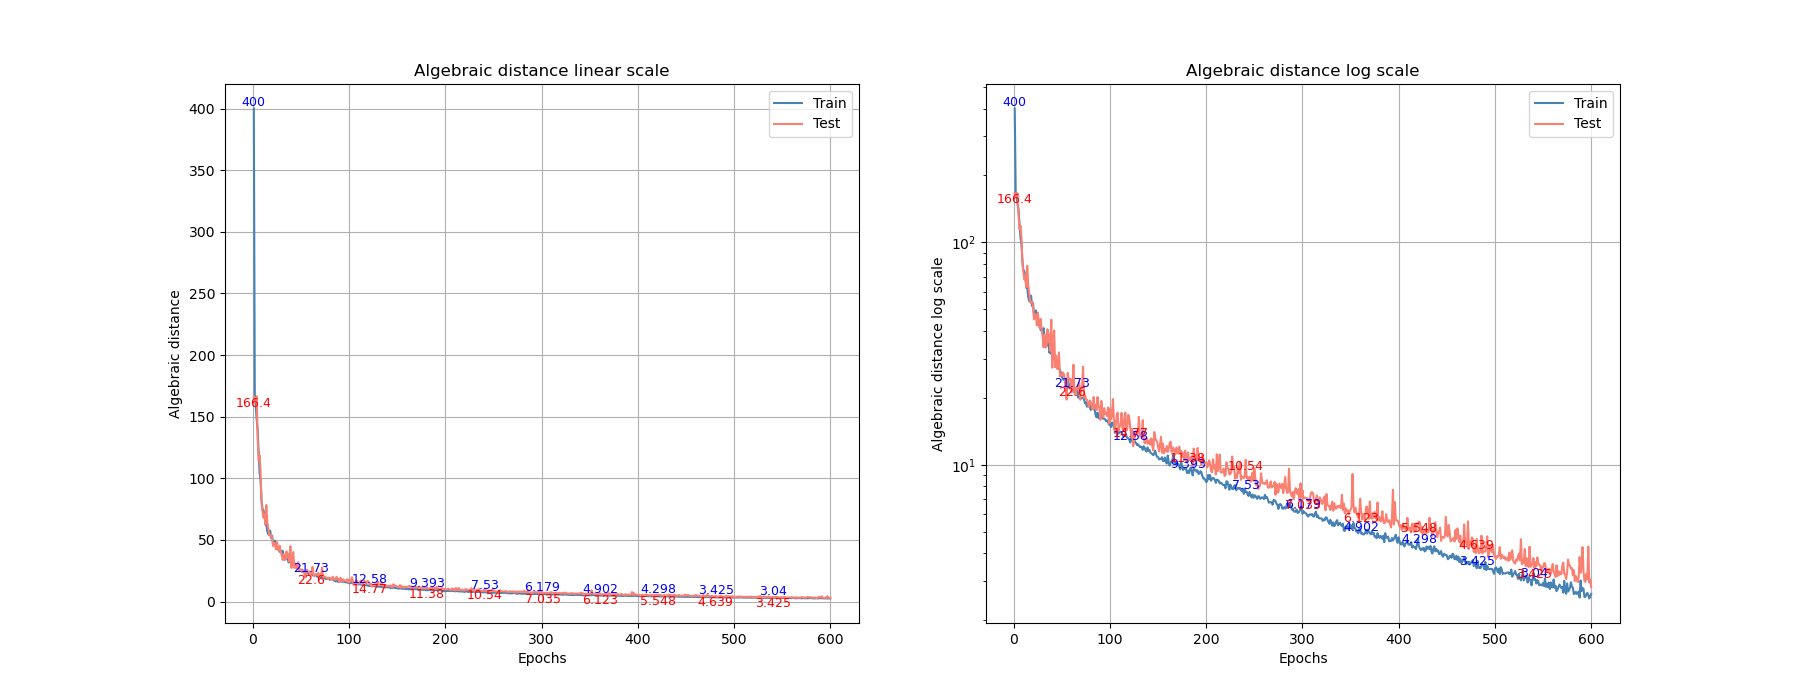
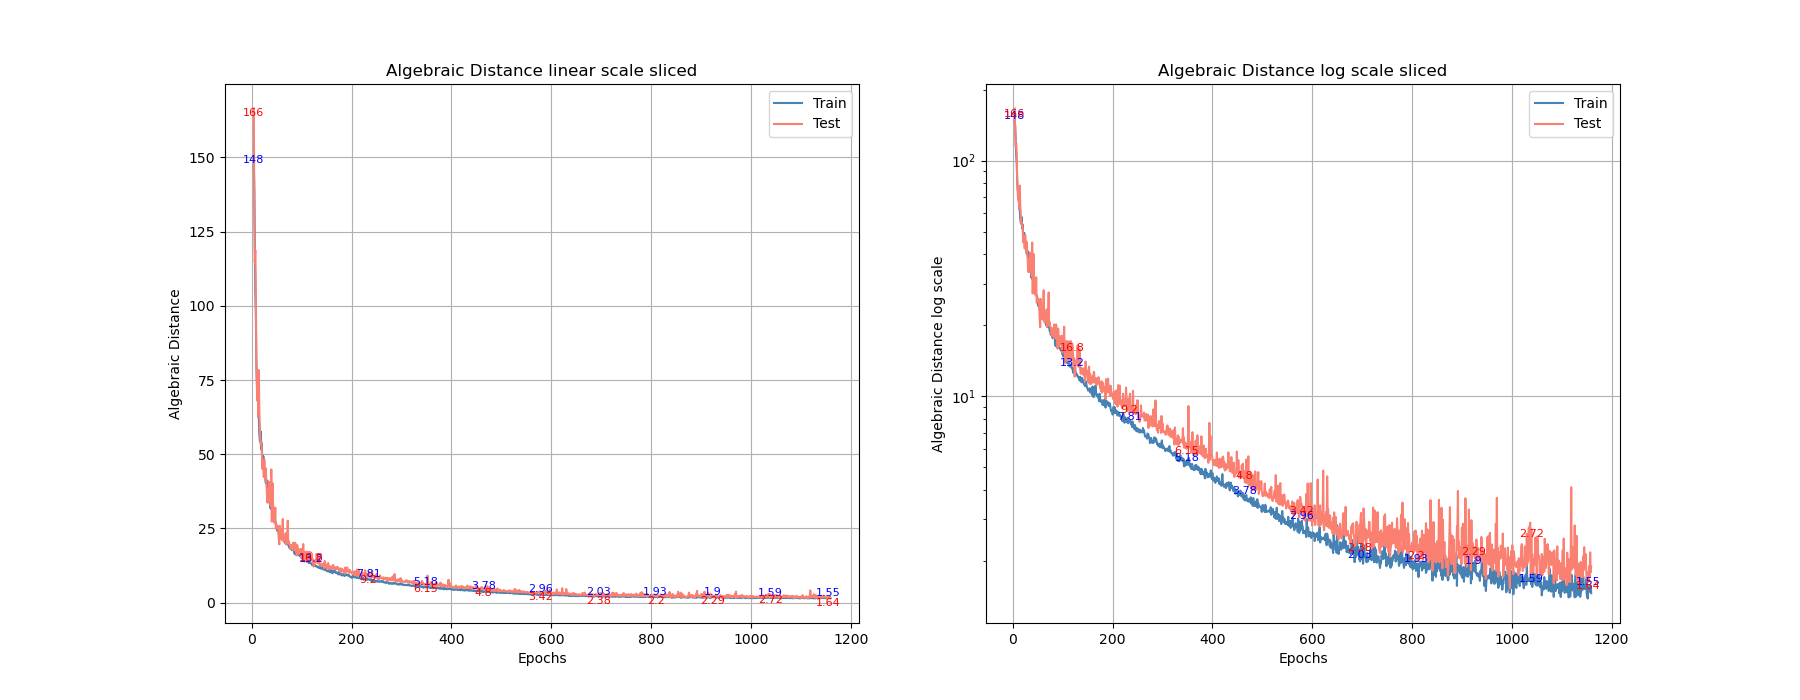
.

diff --git a/params.py b/params.py
@@ -26,13 +26,13 @@ AUGMENTATION = True
 RANDOM_CROP = True
 
 ### Training ###
-learning_rates_vit = [2e-5]
-learning_rates_mlp = [2e-5]
+learning_rates_vit = [8e-5]
+learning_rates_mlp = [8e-5]
 USE_RECONSTRUCTION_LAYER = True
 BATCH_SIZE = 16
 NORM = False
 TRAIN_FROM_SCRATCH = False
-DEEPF_NOCORRS = True
+DEEPF_NOCORRS = False
 IMAGE_TYPE = "jpg" if USE_REALESTATE else "png"
 NUM_WORKERS = 0 # Change Main.py if > 0
 SAVE_MODEL = True
@@ -61,7 +61,7 @@ PRETRAINED_PATH = None
 MODEL = CLIP_MODEL_NAME
 FREEZE_PRETRAINED_MODEL=False
 AVG_EMBEDDINGS = False
-USE_CONV = False
+USE_CONV = True
 USE_CONV = False if DEEPF_NOCORRS else USE_CONV
 GROUP_CONV = {"use" : False, "out_channels": 256}
 NUM_OUTPUT = 8 if USE_RECONSTRUCTION_LAYER else 9

diff --git a/PlotFromText.py b/PlotFromText.py
@@ -79,11 +79,11 @@ def process_epoch_stats(file_path):
 # Plotting function for each parameter
 def plot_parameter(x, y1, y2, title, plots_path=None, x_label="Epochs", save=False):
     sliced = ""
-    if len(y1) > 3 and (y1[0] > y1[3] + 2000 or y2[0] > y2[3] + 2000):
-        y1 = y1[3:]
-        y2 = y2[3:]
-        x = x[3:]
-        sliced = " scliced"
+    # if len(y1) > 3 and (y1[0] > y1[3] + 2000 or y2[0] > y2[3] + 2000):
+    y1 = y1[3:]
+    y2 = y2[3:]
+    x = x[3:]
+    sliced = " sliced"
     fig, axs = plt.subplots(1, 2, figsize=(18, 7))  # 1 row, 2 columns
     
     for ax, y_scale in zip(axs, ['linear', 'log']):
